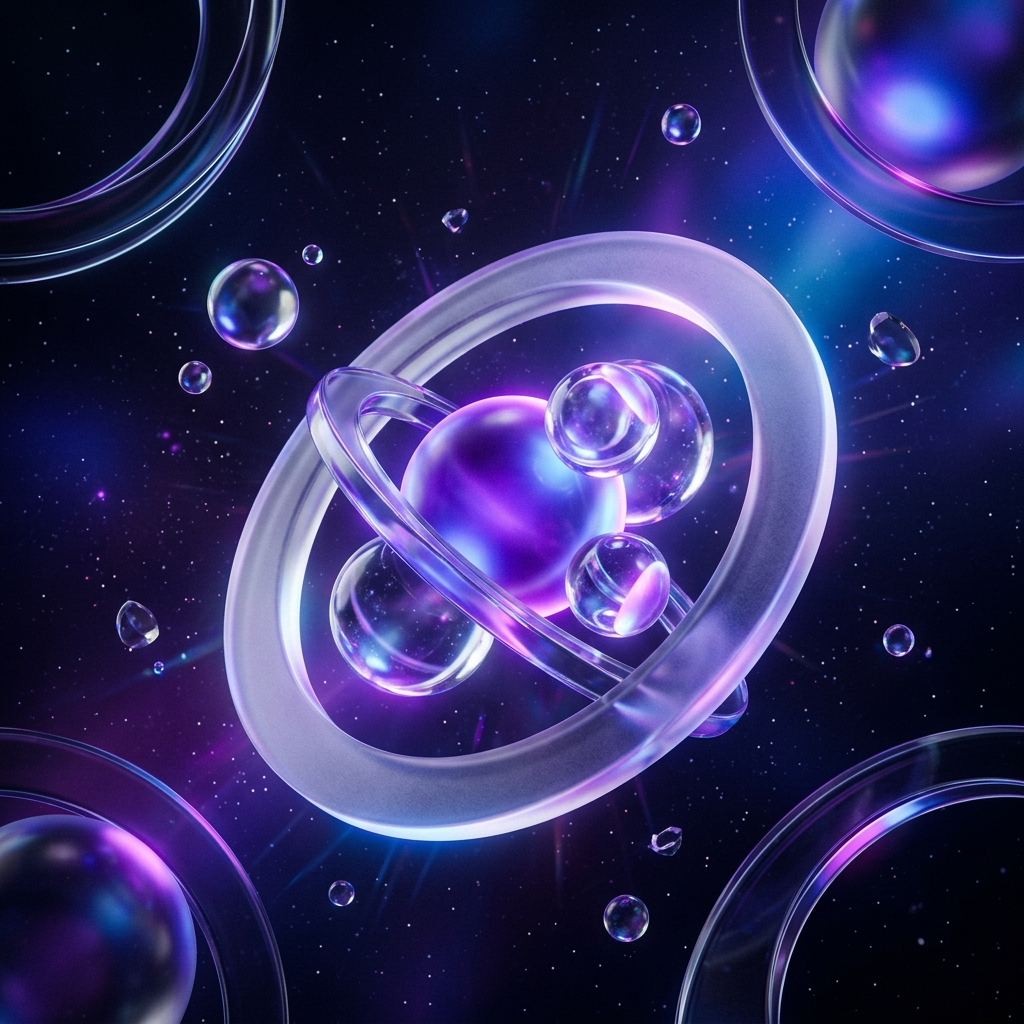
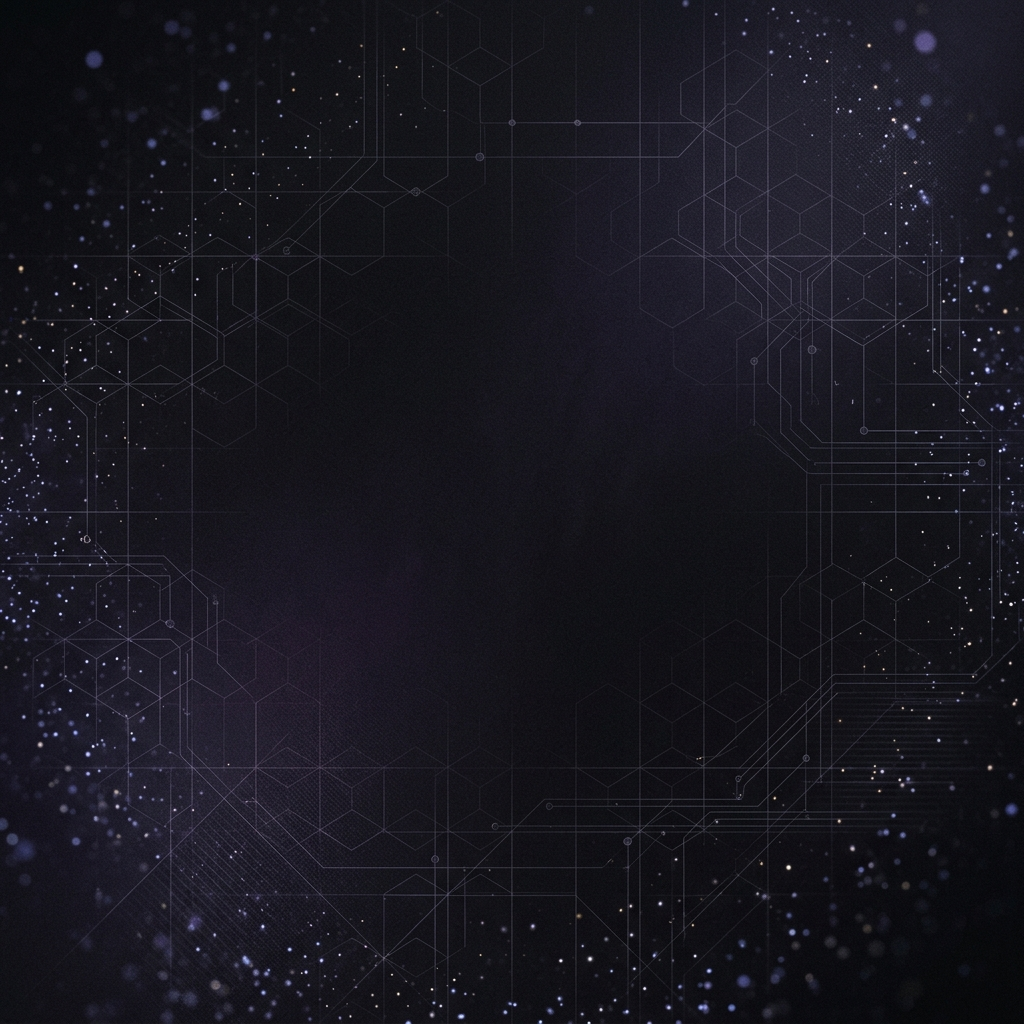
Change background image to a more subtle grid pattern and lower opacity

diff --git a/src/App.css b/src/App.css
@@ -211,9 +211,9 @@
   background-size: cover;
   background-position: center;
   background-repeat: no-repeat;
-  opacity: 0.25;
+  opacity: 0.08;
   pointer-events: none;
-  filter: blur(2px) brightness(0.8);
+  filter: blur(1px) brightness(0.7);
 }
 
 /* Social Proof */